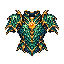
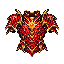
art: apply red draconic armor sprite

diff --git a/Docs/INVENTORY_SPRITES.md b/Docs/INVENTORY_SPRITES.md
@@ -17,6 +17,9 @@ Exportacao para 64 x 64 por nearest-neighbor, preservando o canal alpha da gerac
 As 19 definicoes de materia usam apenas quatro sprites: verde para magia, azul para suporte,
 vermelho para invocacao e roxo para aprimoramento fisico. A Escama ancestral conserva a arte existente.
 
+A Armadura draconica tem escamas vermelhas, sombras em vinho, detalhes dourados e uma gema ambar.
+A cor representa sua afinidade com fogo e a absorcao do Meteoro flamejante na batalha final.
+
 `InventoryIconCatalog` resolve equipamentos pela definicao, consumiveis pelo ID e materias pelo tipo.
 `InventoryPixelArt` carrega e compartilha as texturas de Resources. Os PNGs tambem sao importados
 como Sprite Single, com pivot central, 64 pixels por unidade, Point, sem mipmaps e sem compressao.
